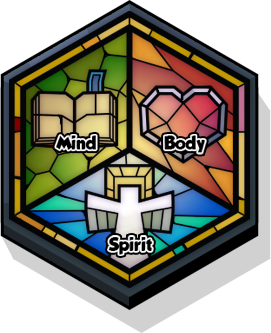
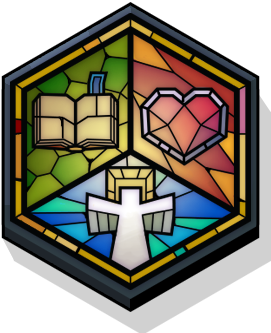
Glass text is translated. Making the stat text not be black, white, then black outlined for now. The other outline didn't look very good.

diff --git a/source/stonehearth_data/mods/stonehearth/ui/game/character_sheets/citizen_character_sheet/citizen_character_sheet.html b/source/stonehearth_data/mods/stonehearth/ui/game/character_sheets/citizen_character_sheet/citizen_character_sheet.html
@@ -56,9 +56,18 @@
          </div>
 
          <div id="glass">
-            <div id="mind">{{view.model.stonehearth:attributes.attributes.mind.effective_value}}</div>
-            <div id="body">{{view.model.stonehearth:attributes.attributes.body.effective_value}}</div>
-            <div id="spirit">{{view.model.stonehearth:attributes.attributes.spirit.effective_value}}</div>
+            <div id="mind">
+               {{view.model.stonehearth:attributes.attributes.mind.effective_value}}
+               <div id="mindLabel" class="whiteBlackOutline">{{i18n stonehearth:stat_mind}}</div>
+            </div>
+            <div id="body">
+               {{view.model.stonehearth:attributes.attributes.body.effective_value}}
+               <div id="bodyLabel" class="whiteBlackOutline">{{i18n stonehearth:stat_body}}</div>
+            </div>
+            <div id="spirit">
+               {{view.model.stonehearth:attributes.attributes.spirit.effective_value}}
+               <div id="spiritLabel" class="whiteBlackOutline">{{i18n stonehearth:stat_spirit}}</div>
+            </div>
          </div>
          <div id="buffs">
             {{#each view.model.buffs}}

diff --git a/source/stonehearth_data/mods/stonehearth/ui/game/character_sheets/citizen_character_sheet/citizen_character_sheet.less b/source/stonehearth_data/mods/stonehearth/ui/game/character_sheets/citizen_character_sheet/citizen_character_sheet.less
@@ -42,9 +42,10 @@
       }
 
       .whiteBlackOutline {
-         text-shadow: -2px -2px 0px #fff, 0px -2px 0px #fff, 2px -2px 0px #fff, -2px 0px 0px #fff, 2px 0px 0px #fff, -2px 2px 0px #fff, 0px 2px 0px #fff, 2px 2px 0px #fff, -4px -4px 0px #000, 0px -4px 0px #000, 4px -4px 0px #000, -4px 0px 0px #000, 4px 0px 0px #000, -4px 4px 0px #000, 0px 4px 0px #000, 4px 4px 0px #000;
+         .thickOutlined;
+         font-size: 16px;
+         color: #fff;
       }
-      
    }
 
    #header {
